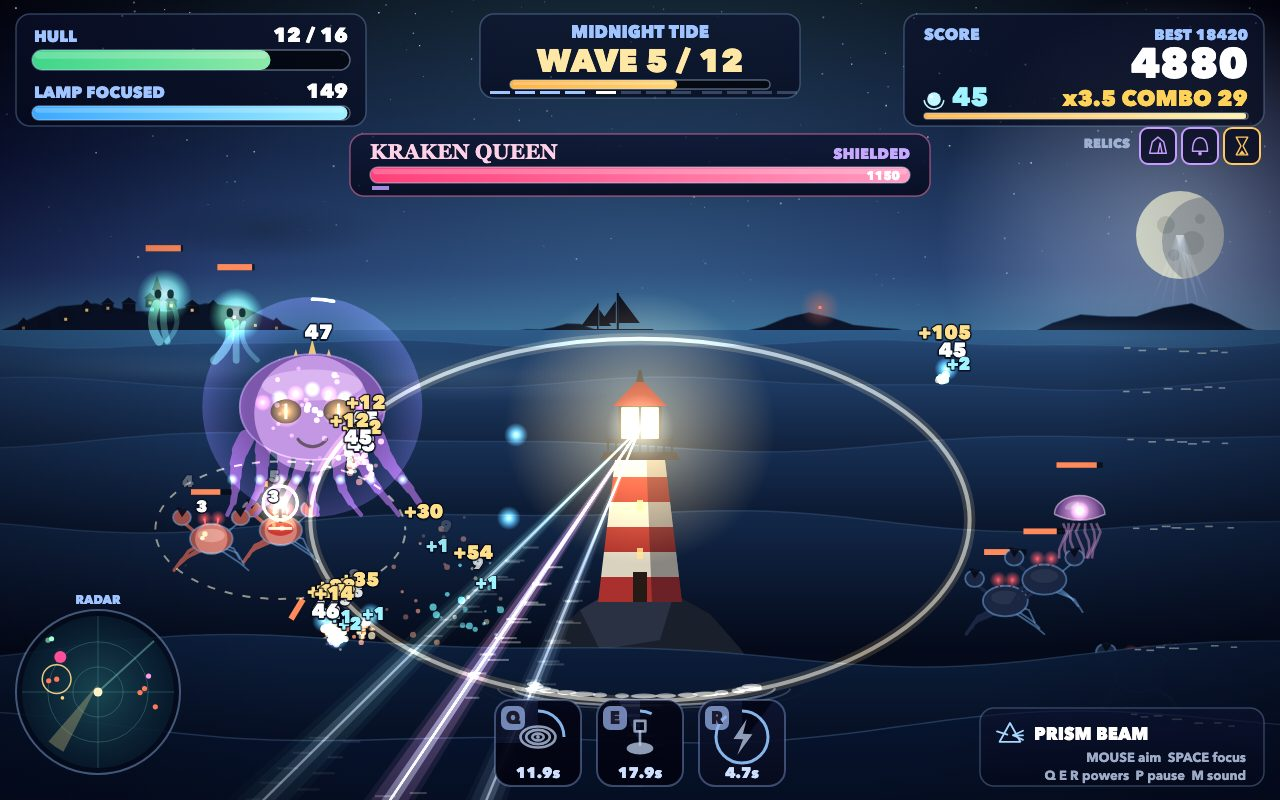
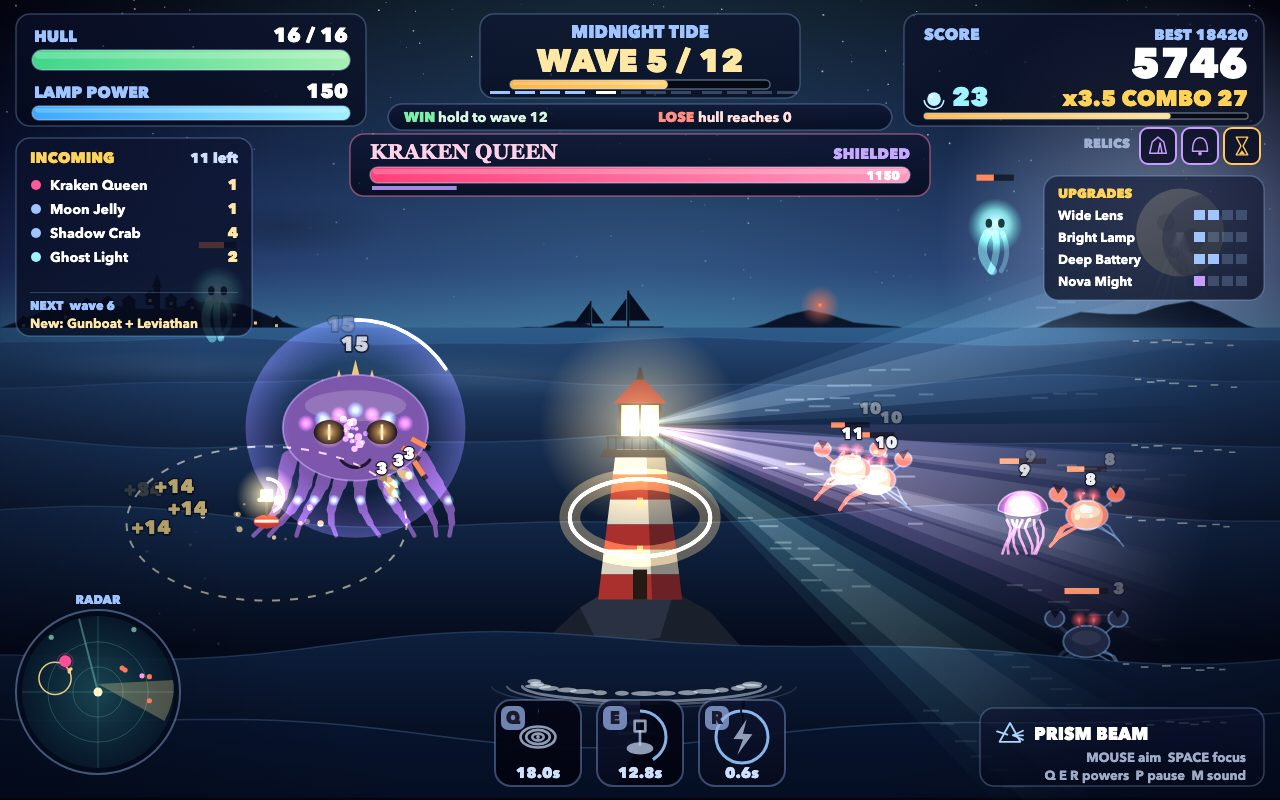
Tide Keeper 3: win/lose rules, incoming and next-wave panel, upgrade list, tidier numbers

diff --git a/game/src/hud.js b/game/src/hud.js
@@ -1,13 +1,13 @@
 // The heads-up display while playing: hull and lamp, tide and wave, score, pearls and combo, the relic
 // strip, the boss bar, the radar, the ability bar and the wave banner. Biggest numbers first, so it
 // still reads when the picture is shrunk.
-import { BEAMS, H, TOTAL_WAVES, W } from './config.js';
+import { BEAMS, BOSS_WAVES, H, TOTAL_WAVES, W } from './config.js';
 import { drawAbilityBar } from './abilities.js';
-import { BOSSES } from './enemies.js';
+import { BOSSES, TYPES, waveCounts } from './enemies.js';
 import { drawIcon } from './icons.js';
 import { drawRadar } from './radar.js';
 import { bar, outlined, panel, roundRect, SERIF, text } from './ui.js';
-import { itemById, RARITY } from './upgrades.js';
+import { itemById, MAX_LEVEL, RARITY, UPGRADES } from './upgrades.js';
 import { tideOf } from './world.js';
 
 /** One small framed relic icon, shared with the shop and the end screen. */
@@ -52,6 +52,75 @@ function drawRelicStrip(ctx, world) {
   }
 }
 
+
+/** The two rules, always on screen: how the run is won and how it is lost. */
+function drawRules(ctx) {
+  const x = W / 2 - 252;
+  const y = 104;
+  panel(ctx, x, y, 504, 26, 0.72);
+  text(ctx, 'WIN', x + 16, y + 18, 14, '#7cf0a8', 'left', 900);
+  text(ctx, `hold to wave ${TOTAL_WAVES}`, x + 50, y + 18, 14, '#d8f5e2', 'left', 700);
+  text(ctx, 'LOSE', x + 270, y + 18, 14, '#ff8f84', 'left', 900);
+  text(ctx, 'hull reaches 0', x + 310, y + 18, 14, '#ffe0dc', 'left', 700);
+}
+
+/** What is still coming this wave (field plus queue) and what the next wave brings. */
+function drawIncoming(ctx, world) {
+  const left = new Map();
+  const note = (type) => left.set(type, (left.get(type) || 0) + 1);
+  for (const e of world.enemies) if (e.type !== 'shell' && e.type !== 'sprat') note(e.type);
+  for (const type of world.spawnList) note(type);
+  if (world.bossPending) note('kraken');
+  const rows = [...left.entries()].sort((a, b) => TYPES[b[0]].hp - TYPES[a[0]].hp).slice(0, 5);
+  const next = world.wave + 1;
+  let nextLine = 'Dawn is near. Hold the light.';
+  if (world.wave < TOTAL_WAVES) {
+    const now = new Set(waveCounts(world.wave).map(([type]) => type));
+    const fresh = waveCounts(next).filter(([type]) => !now.has(type)).map(([type]) => TYPES[type].name.split(' ').pop());
+    nextLine = BOSS_WAVES.includes(next) ? `Boss: ${BOSSES[next].title}` : fresh.length ? `New: ${fresh.join(' + ')}` : 'More of the same, faster';
+  }
+  const x = 16;
+  const y = 138;
+  const h = 58 + rows.length * 24 + 44;
+  panel(ctx, x, y, 236, h, 0.66);
+  text(ctx, 'INCOMING', x + 14, y + 25, 15, '#ffd35a', 'left', 900);
+  text(ctx, `${world.enemiesLeft} left`, x + 222, y + 25, 14, '#cfe0ff', 'right', 800);
+  rows.forEach(([type, count], i) => {
+    const ry = y + 52 + i * 24;
+    ctx.fillStyle = type === 'kraken' ? '#ff5a9a' : type === 'leviathan' ? '#c79bff' : type === 'gunboat' ? '#ffb347' : type === 'ghost' ? '#9ff4ff' : '#9fc4ff';
+    ctx.beginPath();
+    ctx.arc(x + 20, ry - 5, 5, 0, Math.PI * 2);
+    ctx.fill();
+    text(ctx, TYPES[type].name, x + 34, ry, 14, '#ffffff', 'left', 700);
+    text(ctx, String(count), x + 222, ry, 15, '#ffe7a6', 'right', 900);
+  });
+  const ny = y + h - 30;
+  ctx.fillStyle = 'rgba(160,200,255,0.25)';
+  ctx.fillRect(x + 14, ny - 14, 208, 1);
+  text(ctx, `NEXT  wave ${Math.min(next, TOTAL_WAVES)}`, x + 14, ny + 4, 12, '#9fc4ff', 'left', 900);
+  text(ctx, nextLine, x + 14, ny + 22, 13, '#ffe7a6', 'left', 700);
+}
+
+/** Upgrade levels bought so far, so progress shows in a single frame. */
+function drawUpgrades(ctx, world) {
+  const owned = UPGRADES.filter((u) => (world.up[u.id] || 0) > 0);
+  if (owned.length === 0) return;
+  const rows = owned.slice(0, 5);
+  const w = 220;
+  const x = W - 16 - w;
+  const y = 176;
+  panel(ctx, x, y, w, 36 + rows.length * 22, 0.6);
+  text(ctx, 'UPGRADES', x + 14, y + 22, 13, '#ffd35a', 'left', 900);
+  rows.forEach((u, i) => {
+    const ry = y + 44 + i * 22;
+    text(ctx, u.name, x + 14, ry, 13, '#ffffff', 'left', 700);
+    for (let k = 0; k < MAX_LEVEL; k += 1) {
+      ctx.fillStyle = k < world.up[u.id] ? RARITY[u.rarity].color : 'rgba(160,190,240,0.25)';
+      ctx.fillRect(x + w - 14 - (MAX_LEVEL - k) * 14, ry - 10, 11, 10);
+    }
+  });
+}
+
 export function drawHud(ctx, world, ui, pal) {
   const t = world.time;
   const accent = pal.accentCss;
@@ -94,6 +163,9 @@ export function drawHud(ctx, world, ui, pal) {
     text(ctx, 'chain kills for a combo', W - 32, 106, 14, 'rgba(200,220,255,0.6)', 'right', 600);
   }
   drawRelicStrip(ctx, world);
+  drawRules(ctx);
+  drawIncoming(ctx, world);
+  drawUpgrades(ctx, world);
 
   const boss = world.boss;
   if (boss) drawBossBar(ctx, world, boss, t);

diff --git a/game/src/enemies.js b/game/src/enemies.js
@@ -150,19 +150,25 @@ export function moveEnemy(e, dt, slow, beam) {
   if (e.type !== 'ghost' && e.y < HORIZON + 4) e.y = HORIZON + 4;
 }
 
+/** What wave `n` sends, as [type, count] pairs (the boss comes separately). */
+export function waveCounts(n) {
+  const boss = BOSS_WAVES.includes(n);
+  const scale = (count) => Math.round(count * (boss ? 0.55 : 1) * (n > 8 ? 1 + 0.12 * (n - 8) : 1));
+  const rows = [
+    ['crab', 9 + Math.ceil(3 * n)],
+    ['eel', n >= 2 ? Math.min(24, 3 * n) : 0],
+    ['jelly', n >= 3 ? Math.min(12, n) : 0],
+    ['ghost', n >= 4 ? Math.min(12, n) : 0],
+    ['gunboat', n >= 6 ? Math.min(4, Math.floor((n - 3) / 2)) : 0],
+    ['leviathan', n >= 6 ? Math.floor((n - 2) / 2.5) : 0],
+  ].map(([type, count]) => [type, scale(count)]);
+  if (n === 12) rows.push(['leviathan', scale(1)]);
+  return rows.filter(([, count]) => count > 0);
+}
+
 /** The creatures wave `n` sends, as a shuffled list of type names (the boss comes separately). */
 export function waveRoster(n, rng) {
   const list = [];
-  const boss = BOSS_WAVES.includes(n);
-  const add = (type, count) => {
-    for (let i = 0; i < Math.round(count * (boss ? 0.55 : 1) * (n > 8 ? 1 + 0.12 * (n - 8) : 1)); i += 1) list.push(type);
-  };
-  add('crab', 9 + Math.ceil(3 * n));
-  add('eel', n >= 2 ? Math.min(24, 3 * n) : 0);
-  add('jelly', n >= 3 ? Math.min(12, n) : 0);
-  add('ghost', n >= 4 ? Math.min(12, n) : 0);
-  add('gunboat', n >= 6 ? Math.min(4, Math.floor((n - 3) / 2)) : 0);
-  add('leviathan', n >= 6 ? Math.floor((n - 2) / 2.5) : 0);
-  if (n === 12) add('leviathan', 1);
+  for (const [type, count] of waveCounts(n)) for (let i = 0; i < count; i += 1) list.push(type);
   return rng.shuffle(list);
 }

diff --git a/game/src/world.js b/game/src/world.js
@@ -398,7 +398,7 @@ export class World {
     const n = Math.round(e.acc);
     e.acc = 0;
     e.accT = 0.38;
-    if (this.floaters.length > 70) return;
+    if (this.floaters.length > 22) return;
     this.floaters.push({
       x: e.x + this.fx.range(-10, 10),
       y: e.y - e.r - 6,
